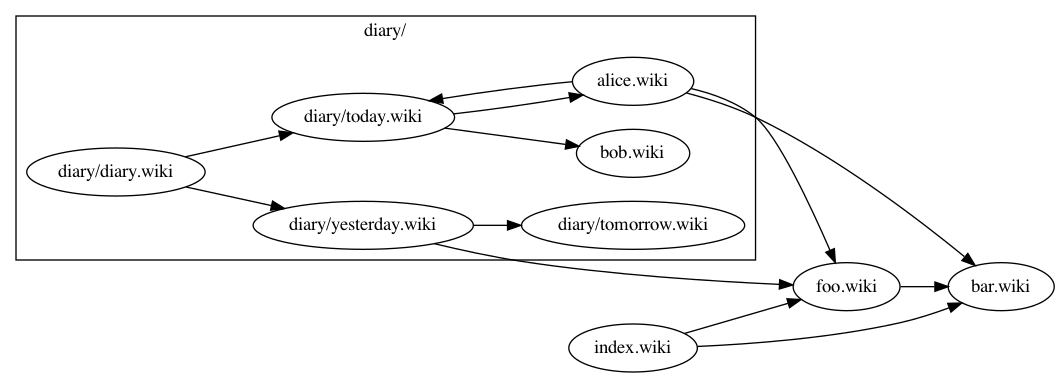
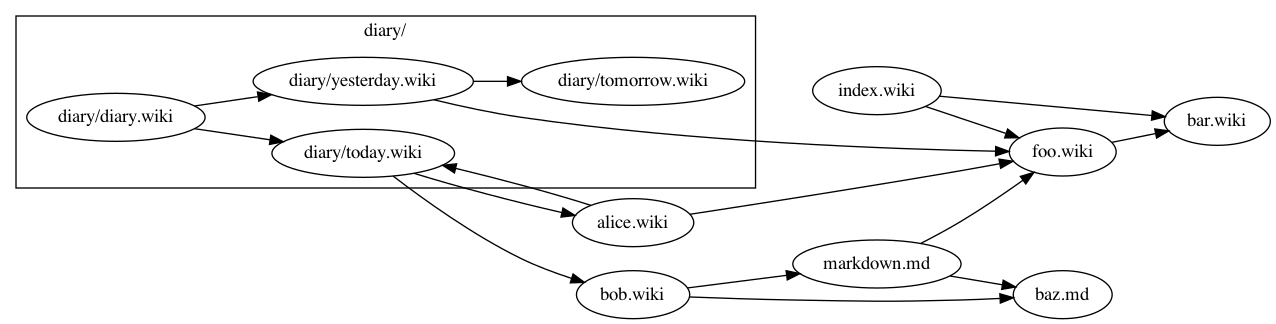
Ensure edges are drawn in subgraph.
Before only the starting node a of an edge, e.g. node a -> node b, were
drawn as part of the subgraph. This change ensures that also node b is
added to the subgraph.

diff --git a/vimwikigraph.go b/vimwikigraph.go
@@ -175,9 +175,6 @@ func (wiki *Wiki) ParseWikiLinks(link string) string {
 //
 // Only the relative paths are considered between the passed path and wiki.root.
 func (wiki *Wiki) Add(path string) error {
-
-	log.Println(path)
-
 	key, err := filepath.Rel(wiki.root, path)
 	if err != nil {
 		return err
@@ -222,26 +219,42 @@ func (wiki *Wiki) Dot(opts ...dot.GraphOption) *dot.Graph {
 		opt.Apply(graph)
 	}
 
-	for k, val := range wiki.graph {
-		g := graph
+	var a, b dot.Node
 
-		if wiki.cluster {
-			dir, _ := filepath.Split(k)
-			if dir != "" {
-				g = graph.Subgraph(dir, dot.ClusterOption{})
-			}
+	for k, val := range wiki.graph {
+
+		// only draw nodes with connection
+		if len(val) == 0 {
+			continue
+		}
+
+		// insert in subgraph if wiki and in subdirectory
+		// FIXME move into func?
+		dir, _ := filepath.Split(k)
+		if wiki.cluster && dir != "" {
+			subgraph := graph.Subgraph(dir, dot.ClusterOption{})
+			a = subgraph.Node(k)
+		} else {
+			a = graph.Node(k)
 		}
 
 		for _, v := range val {
-			a := g.Node(k)
-			b := g.Node(v)
+			// insert in subgraph if wiki and in subdirectory
+			dir, _ := filepath.Split(v)
+			if wiki.cluster && dir != "" {
+				subgraph := graph.Subgraph(dir, dot.ClusterOption{})
+				b = subgraph.Node(v)
+			} else {
+				b = graph.Node(v)
+			}
 
-			// prevent duplicates
-			if len(g.FindEdges(a, b)) == 0 {
-				g.Edge(a, b)
+			// only insert unique edges
+			if len(graph.FindEdges(a, b)) == 0 {
+				graph.Edge(a, b)
 			}
 		}
 	}
+
 	return graph
 }
 
